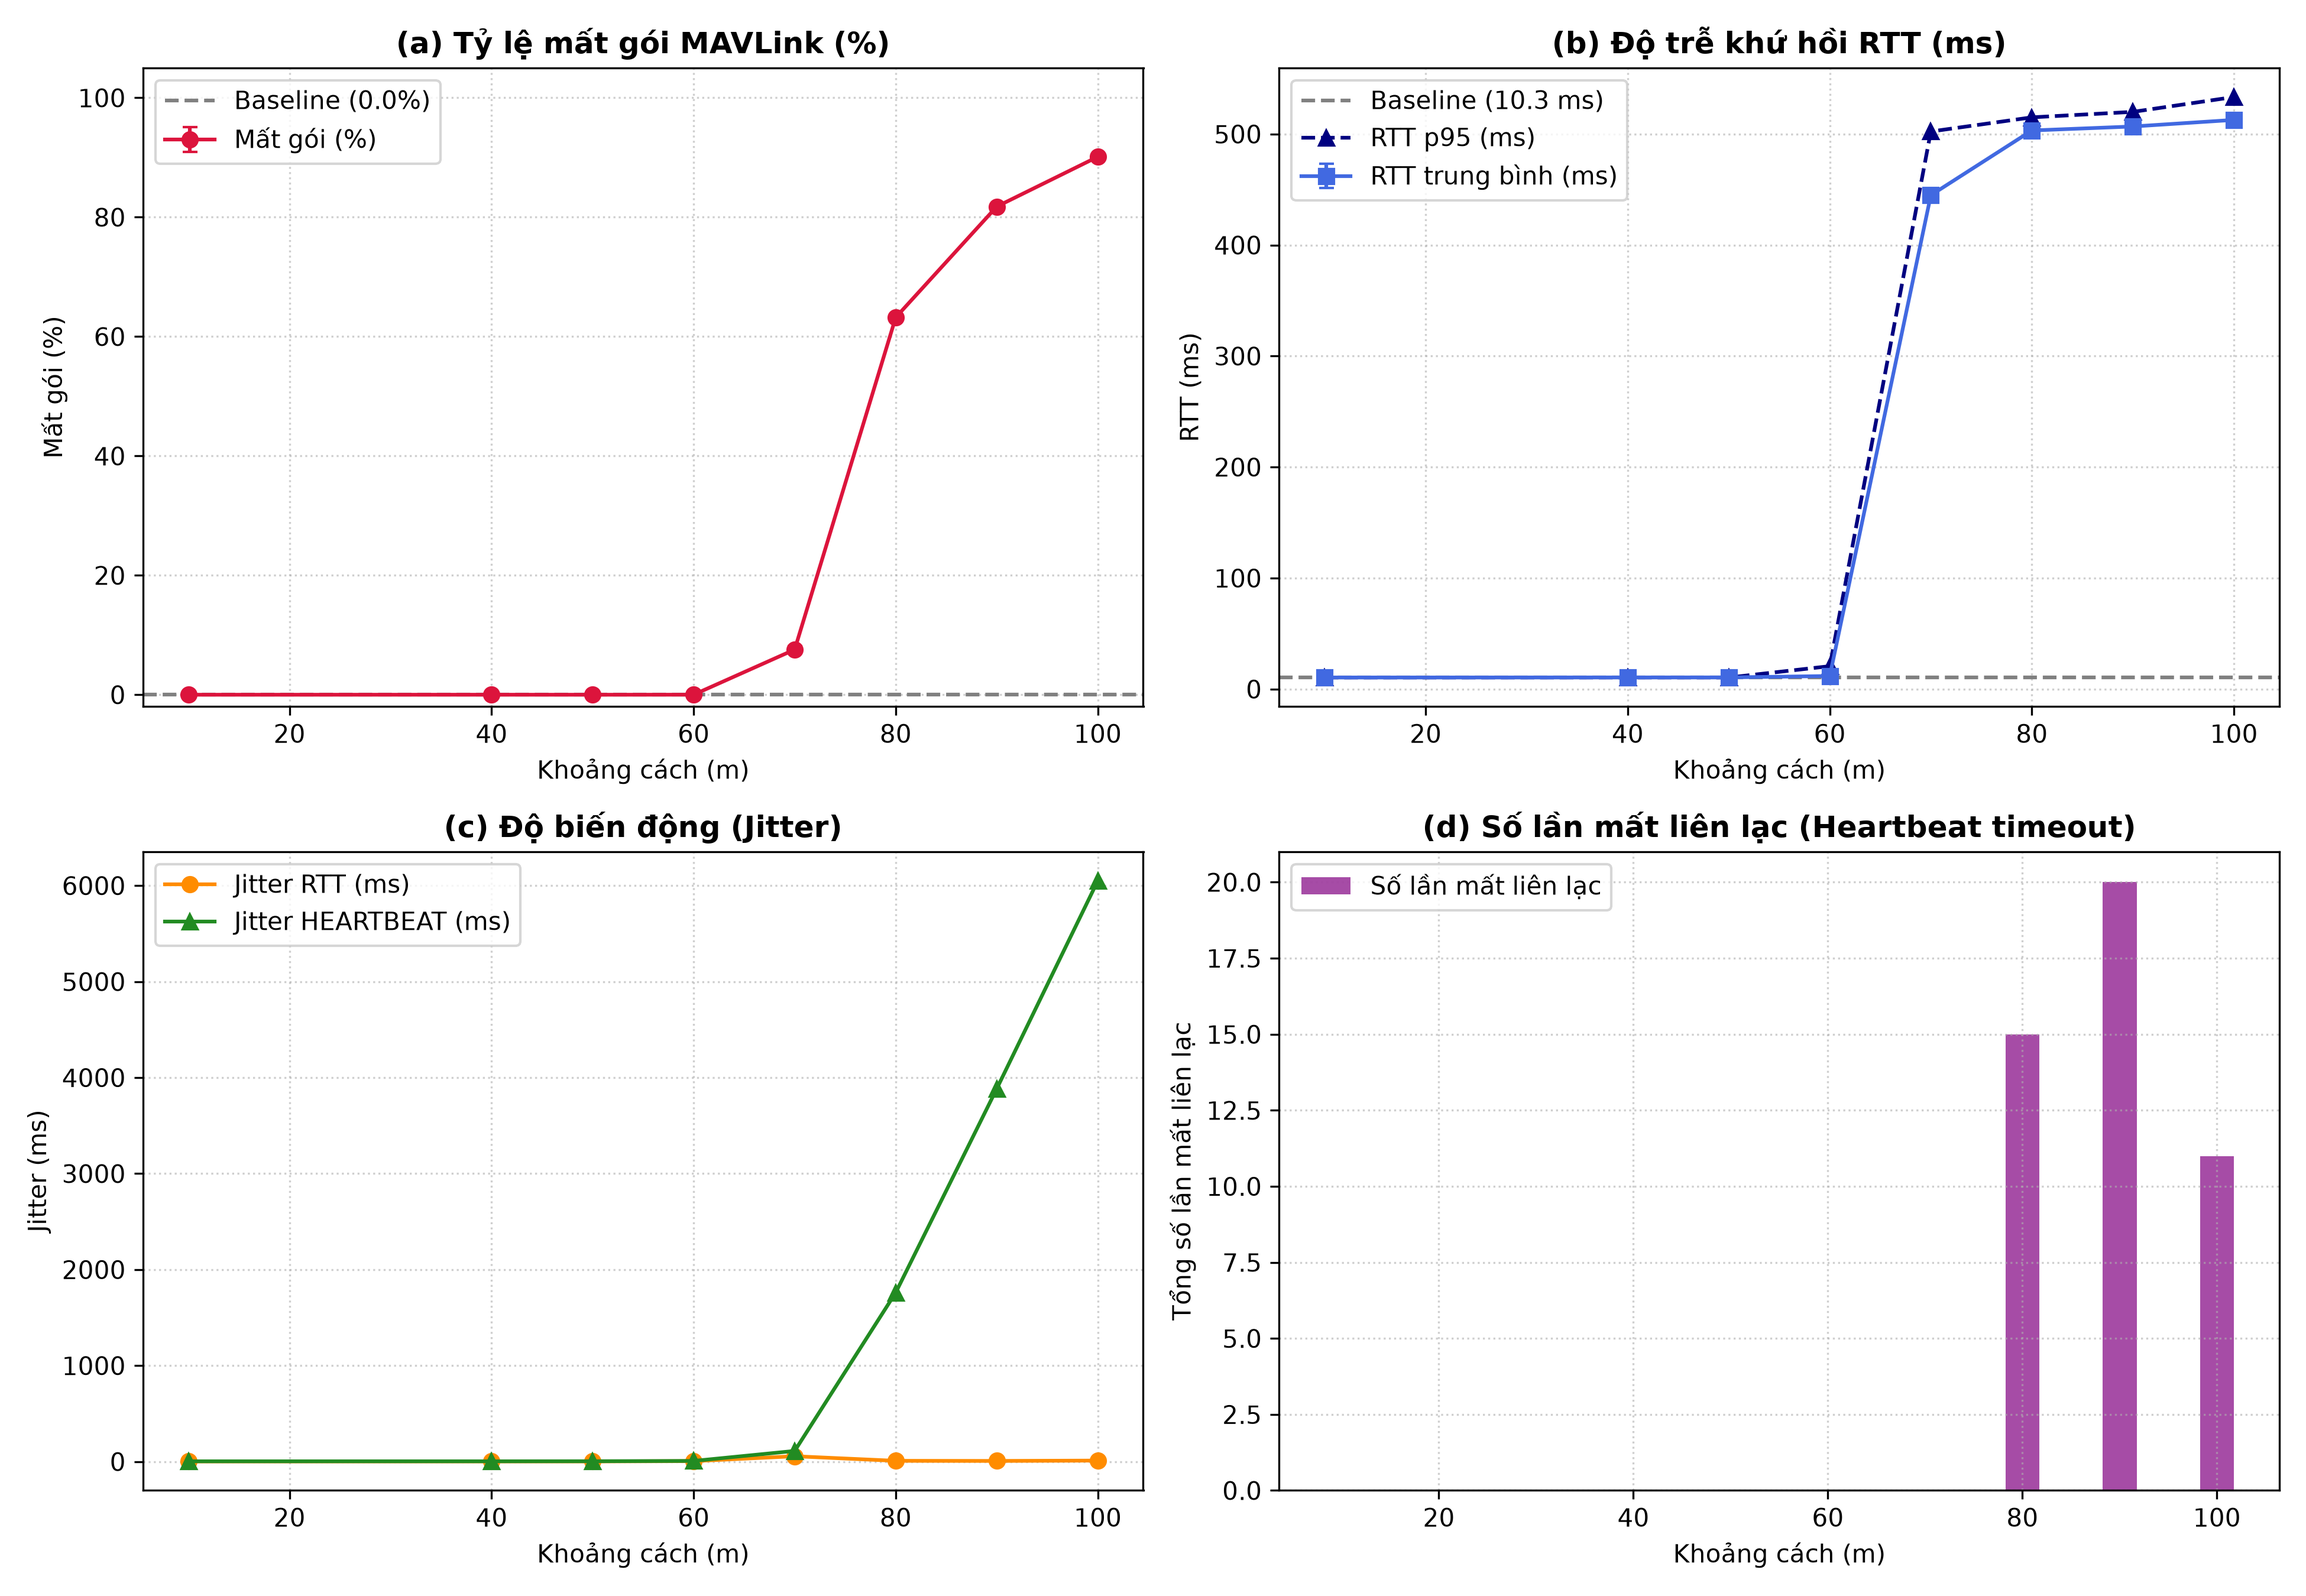
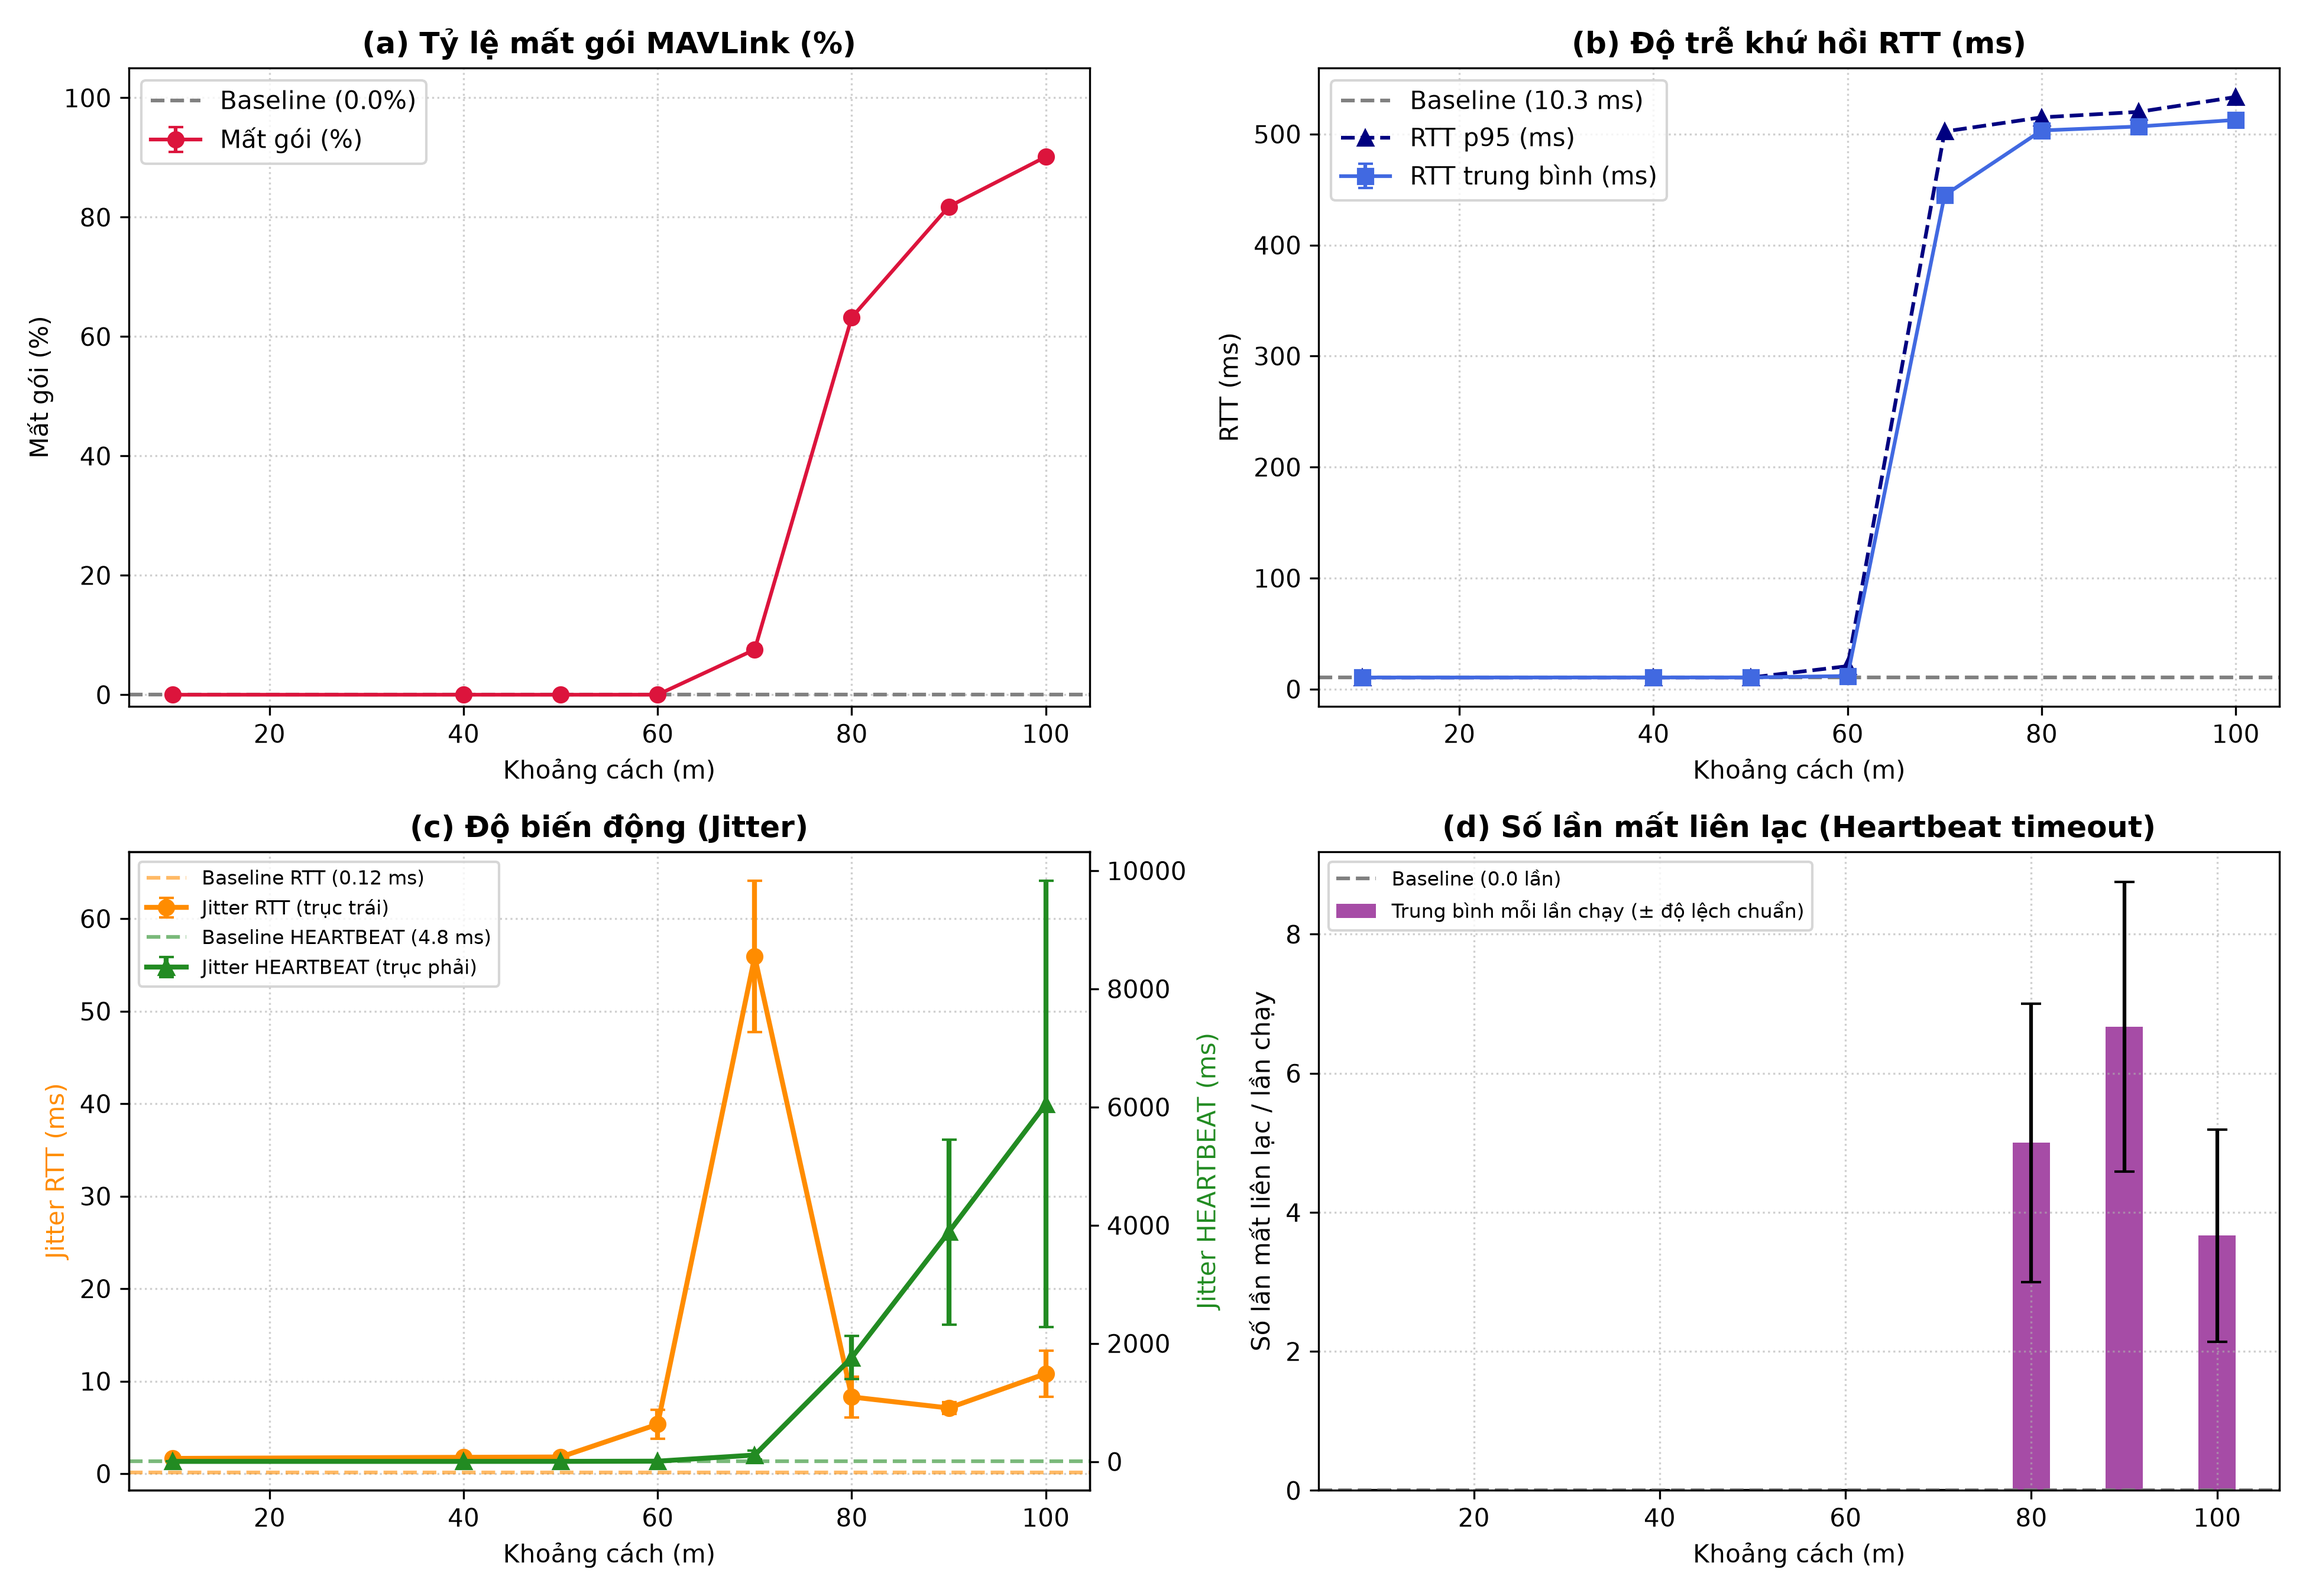
NET-03/T5: biên bản kiểm thử chấp nhận, sửa biểu đồ jitter và mất kết nối

diff --git a/analysis/plot_results.py b/analysis/plot_results.py
@@ -67,9 +67,13 @@ def generate_summary_table(df: pd.DataFrame, out_dir: str) -> pd.DataFrame:
         rtt_std=("rtt_mean_ms", "std"),
         rtt_p95_mean=("rtt_p95_ms", "mean"),
         rtt_jitter_mean=("rtt_jitter_ms", "mean"),
+        rtt_jitter_std=("rtt_jitter_ms", "std"),
         hb_jitter_mean=("hb_jitter_ms", "mean"),
+        hb_jitter_std=("hb_jitter_ms", "std"),
         probes_lost_sum=("probes_lost", "sum"),
         lost_events_sum=("lost_events", "sum"),
+        lost_events_mean=("lost_events", "mean"),
+        lost_events_std=("lost_events", "std"),
     ).reset_index()
 
     # Lưu ra CSV
@@ -94,6 +98,52 @@ def generate_summary_table(df: pd.DataFrame, out_dir: str) -> pd.DataFrame:
         f.write("=" * 96 + "\n")
     print(f"[OK] Đã xuất bảng văn bản: {out_txt}")
     return grouped
+
+
+def _baseline_value(baseline_summary: pd.DataFrame, col: str):
+    """Giá trị trung bình của baseline (distance == 0) cho một cột; None nếu không có baseline."""
+    if len(baseline_summary) == 0 or pd.isnull(baseline_summary[col].values[0]):
+        return None
+    return baseline_summary[col].values[0]
+
+
+def draw_jitter(ax, wifi_summary: pd.DataFrame, baseline_summary: pd.DataFrame, title: str):
+    """(c) Jitter: RTT ở trục trái, HEARTBEAT ở trục phải (hai thang khác nhau ~100 lần), có baseline và độ lệch chuẩn 3 lần."""
+    rtt = wifi_summary.dropna(subset=["rtt_jitter_mean"])
+    hb = wifi_summary.dropna(subset=["hb_jitter_mean"])
+    ax2 = ax.twinx()
+    ax.errorbar(rtt["distance"], rtt["rtt_jitter_mean"], yerr=rtt["rtt_jitter_std"].fillna(0),
+                fmt="-o", color="darkorange", capsize=3, linewidth=2, label="Jitter RTT (trục trái)")
+    ax2.errorbar(hb["distance"], hb["hb_jitter_mean"], yerr=hb["hb_jitter_std"].fillna(0),
+                 fmt="-^", color="forestgreen", capsize=3, linewidth=2, label="Jitter HEARTBEAT (trục phải)")
+    b_rtt = _baseline_value(baseline_summary, "rtt_jitter_mean")
+    b_hb = _baseline_value(baseline_summary, "hb_jitter_mean")
+    if b_rtt is not None:
+        ax.axhline(y=b_rtt, color="darkorange", linestyle="--", alpha=0.6, label=f"Baseline RTT ({b_rtt:.2f} ms)")
+    if b_hb is not None:
+        ax2.axhline(y=b_hb, color="forestgreen", linestyle="--", alpha=0.6, label=f"Baseline HEARTBEAT ({b_hb:.1f} ms)")
+    ax.set_title(title, fontweight="bold")
+    ax.set_xlabel("Khoảng cách (m)")
+    ax.set_ylabel("Jitter RTT (ms)", color="darkorange")
+    ax2.set_ylabel("Jitter HEARTBEAT (ms)", color="forestgreen")
+    ax.grid(True, linestyle=":", alpha=0.6)
+    h1, l1 = ax.get_legend_handles_labels()
+    h2, l2 = ax2.get_legend_handles_labels()
+    ax.legend(h1 + h2, l1 + l2, loc="upper left", fontsize=8)
+
+
+def draw_lost_events(ax, wifi_summary: pd.DataFrame, baseline_summary: pd.DataFrame, title: str):
+    """(d) Số lần mất liên lạc (quá 3 s không có HEARTBEAT) trung bình mỗi lần chạy 60 s, thanh sai số = độ lệch chuẩn 3 lần."""
+    ax.bar(wifi_summary["distance"], wifi_summary["lost_events_mean"], width=4, color="purple", alpha=0.7,
+           yerr=wifi_summary["lost_events_std"].fillna(0), capsize=4, label="Trung bình mỗi lần chạy (± độ lệch chuẩn)")
+    b = _baseline_value(baseline_summary, "lost_events_mean")
+    if b is not None:
+        ax.axhline(y=b, color="gray", linestyle="--", label=f"Baseline ({b:.1f} lần)")
+    ax.set_title(title, fontweight="bold")
+    ax.set_xlabel("Khoảng cách (m)")
+    ax.set_ylabel("Số lần mất liên lạc / lần chạy")
+    ax.grid(True, linestyle=":", alpha=0.6)
+    ax.legend(loc="upper left", fontsize=8)
 
 
 def plot_metrics(df: pd.DataFrame, summary_df: pd.DataFrame, out_dir: str):
@@ -176,35 +226,23 @@ def plot_metrics(df: pd.DataFrame, summary_df: pd.DataFrame, out_dir: str):
     plt.close()
     print(f"[OK] Đã lưu biểu đồ: {rtt_png}")
 
-    # 3. Đồ thị Jitter RTT và Jitter HEARTBEAT
-    plt.figure(figsize=(8, 5))
-    valid_jit_summary = wifi_summary.dropna(subset=["rtt_jitter_mean", "hb_jitter_mean"])
-    plt.plot(
-        valid_jit_summary["distance"],
-        valid_jit_summary["rtt_jitter_mean"],
-        "-o",
-        color="darkorange",
-        linewidth=2,
-        label="Jitter RTT (ms)",
-    )
-    plt.plot(
-        valid_jit_summary["distance"],
-        valid_jit_summary["hb_jitter_mean"],
-        "-^",
-        color="forestgreen",
-        linewidth=2,
-        label="Jitter HEARTBEAT (ms)",
-    )
-    plt.title("Độ biến thiên trễ (Jitter) theo khoảng cách", fontsize=13, fontweight="bold")
-    plt.xlabel("Khoảng cách (m)", fontsize=11)
-    plt.ylabel("Jitter (ms)", fontsize=11)
-    plt.grid(True, linestyle=":", alpha=0.6)
-    plt.legend(loc="upper left")
-    plt.tight_layout()
+    # 3. Đồ thị Jitter RTT và Jitter HEARTBEAT (hai trục y)
+    fig, ax = plt.subplots(figsize=(8, 5))
+    draw_jitter(ax, wifi_summary, baseline_summary, "Độ biến thiên trễ (Jitter) theo khoảng cách")
+    fig.tight_layout()
     jit_png = os.path.join(out_dir, "jitter_vs_distance.png")
-    plt.savefig(jit_png, dpi=300)
-    plt.close()
+    fig.savefig(jit_png, dpi=300)
+    plt.close(fig)
     print(f"[OK] Đã lưu biểu đồ: {jit_png}")
+
+    # 3b. Đồ thị số lần mất liên lạc
+    fig, ax = plt.subplots(figsize=(8, 5))
+    draw_lost_events(ax, wifi_summary, baseline_summary, "Số lần mất liên lạc (quá 3 s không có HEARTBEAT)")
+    fig.tight_layout()
+    lost_png = os.path.join(out_dir, "lost_events_vs_distance.png")
+    fig.savefig(lost_png, dpi=300)
+    plt.close(fig)
+    print(f"[OK] Đã lưu biểu đồ: {lost_png}")
 
     # 4. Hình ghép 2x2 tổng hợp cho Báo cáo (Combined 4-panel)
     fig, axs = plt.subplots(2, 2, figsize=(13, 9))
@@ -242,22 +280,9 @@ def plot_metrics(df: pd.DataFrame, summary_df: pd.DataFrame, out_dir: str):
     axs[0, 1].grid(True, linestyle=":", alpha=0.6)
     axs[0, 1].legend()
 
-    # Panel (c) Jitter
-    axs[1, 0].plot(valid_jit_summary["distance"], valid_jit_summary["rtt_jitter_mean"], "-o", color="darkorange", label="Jitter RTT (ms)")
-    axs[1, 0].plot(valid_jit_summary["distance"], valid_jit_summary["hb_jitter_mean"], "-^", color="forestgreen", label="Jitter HEARTBEAT (ms)")
-    axs[1, 0].set_title("(c) Độ biến động (Jitter)", fontweight="bold")
-    axs[1, 0].set_xlabel("Khoảng cách (m)")
-    axs[1, 0].set_ylabel("Jitter (ms)")
-    axs[1, 0].grid(True, linestyle=":", alpha=0.6)
-    axs[1, 0].legend()
-
-    # Panel (d) Số lần mất liên lạc (Lost events)
-    axs[1, 1].bar(wifi_summary["distance"], wifi_summary["lost_events_sum"], width=3.5, color="purple", alpha=0.7, label="Số lần mất liên lạc")
-    axs[1, 1].set_title("(d) Số lần mất liên lạc (Heartbeat timeout)", fontweight="bold")
-    axs[1, 1].set_xlabel("Khoảng cách (m)")
-    axs[1, 1].set_ylabel("Tổng số lần mất liên lạc")
-    axs[1, 1].grid(True, linestyle=":", alpha=0.6)
-    axs[1, 1].legend()
+    # Panel (c) Jitter và (d) Số lần mất liên lạc
+    draw_jitter(axs[1, 0], wifi_summary, baseline_summary, "(c) Độ biến động (Jitter)")
+    draw_lost_events(axs[1, 1], wifi_summary, baseline_summary, "(d) Số lần mất liên lạc (Heartbeat timeout)")
 
     plt.tight_layout()
     combined_png = os.path.join(out_dir, "combined_metrics.png")
